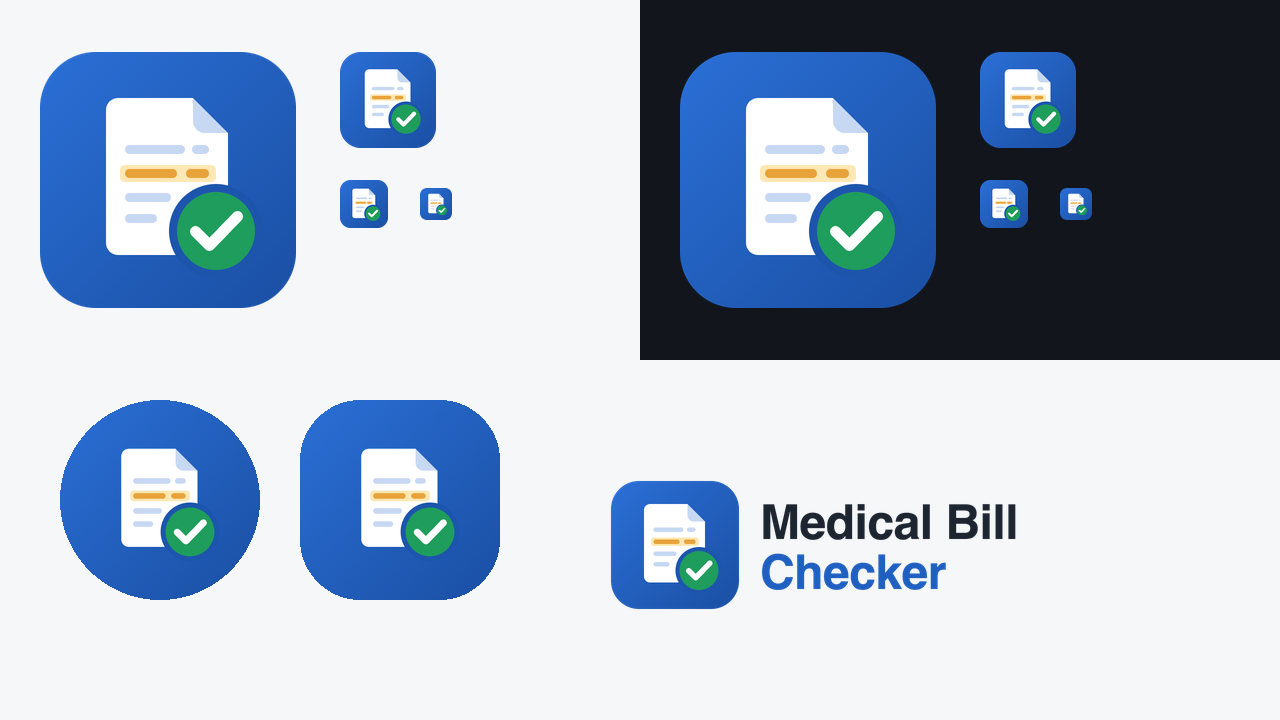
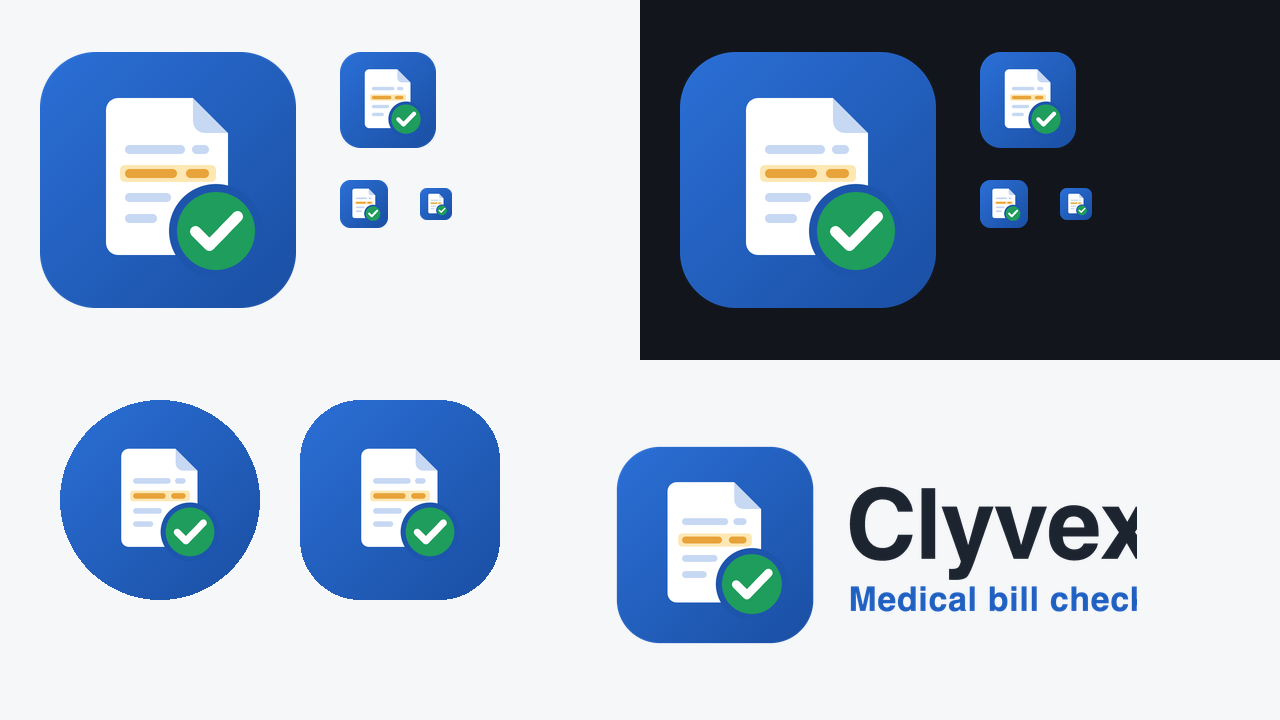
Rename the app to Clyvexa
Clyvexa everywhere users see the name (header, page and tab titles,
Spanish UI, verification page, MCP server, guide source), with
'Medical bill checker' as the descriptor in the wordmark and page title.
New wordmark lockup; search index rebuilt for the changed guide. Internal
package and repository names are unchanged.

Changed region(s): [[0.4688, 0.6111, 0.9062, 0.9167]]

diff --git a/frontend/src/lib/i18n.ts b/frontend/src/lib/i18n.ts
@@ -3,7 +3,7 @@
 export type Lang = "en" | "es";
 
 export const STATIC_EN: Record<string, string> = {
-  "app_title": "Medical Bill Checker",
+  "app_title": "Clyvexa",
   "my_account": "My account",
   "log_out": "Log out",
   "tagline": "Understand your medical bill, compare it with your insurance statement, and get a letter to send if something needs checking.",
@@ -122,7 +122,7 @@ export const STATIC_EN: Record<string, string> = {
 // go to US billing offices and insurers.
 
 export const STATIC_ES: Record<string, string> = {
-  app_title: "Revisor de Facturas Médicas",
+  app_title: "Clyvexa",
   tagline: "Entienda su factura médica, compárela con el estado de cuenta de su seguro y obtenga una carta para enviar si algo necesita revisión.",
   upload_title: "Suba su factura",
   bill_label: "Factura médica",

diff --git a/frontend/src/components/VerifyPacket.tsx b/frontend/src/components/VerifyPacket.tsx
@@ -127,8 +127,8 @@ export default function VerifyPacket() {
             <h2>{valid ? "✓ Signature valid" : "✗ Signature does not match"}</h2>
             <p>
               {valid
-                ? "This record was issued by Medical Bill Checker and has not been altered since."
-                : "This record has been altered or was not issued by Medical Bill Checker. Do not rely on it."}{" "}
+                ? "This record was issued by Clyvexa and has not been altered since."
+                : "This record has been altered or was not issued by Clyvexa. Do not rely on it."}{" "}
               <span className="muted">
                 Checked {browserCheck === null ? "by the server" : "in your browser"} with Ed25519.
               </span>

diff --git a/src/billchecker/web/index.html b/src/billchecker/web/index.html
@@ -3,7 +3,7 @@
 <head>
   <meta charset="utf-8">
   <meta name="viewport" content="width=device-width, initial-scale=1">
-  <title>Medical Bill Checker</title>
+  <title>Clyvexa: Medical Bill Checker</title>
   <link rel="icon" href="data:,">
   <link rel="stylesheet" href="/static/style.css">
   <script src="/static/i18n.js" defer></script>
@@ -13,7 +13,7 @@
   <header class="site-header">
     <div class="wrap">
       <div class="header-row">
-        <h1 data-i18n="app_title">Medical Bill Checker</h1>
+        <h1 data-i18n="app_title">Clyvexa</h1>
         <div class="header-actions">
           <span id="user-menu" hidden>
             <span id="user-email" class="muted"></span>

diff --git a/frontend/src/app/verify/page.tsx b/frontend/src/app/verify/page.tsx
@@ -1,7 +1,7 @@
 import type { Metadata } from "next";
 import VerifyPacket from "@/components/VerifyPacket";
 
-export const metadata: Metadata = { title: "Verify a billing letter · Medical Bill Checker" };
+export const metadata: Metadata = { title: "Verify a billing letter · Clyvexa" };
 
 export default function VerifyPage() {
   return <VerifyPacket />;

diff --git a/frontend/src/app/layout.tsx b/frontend/src/app/layout.tsx
@@ -2,7 +2,7 @@ import type { Metadata, Viewport } from "next";
 import "./globals.css";
 
 export const metadata: Metadata = {
-  title: "Medical Bill Checker",
+  title: "Clyvexa: Medical Bill Checker",
   description: "Understand your medical bill, compare it with your insurance statement, and get a letter to send.",
   icons: {
     icon: [

diff --git a/src/billchecker/web/i18n.js b/src/billchecker/web/i18n.js
@@ -5,7 +5,7 @@
 "use strict";
 
 const STATIC_ES = {
-  app_title: "Revisor de Facturas Médicas",
+  app_title: "Clyvexa",
   tagline: "Entienda su factura médica, compárela con el estado de cuenta de su seguro y obtenga una carta para enviar si algo necesita revisión.",
   upload_title: "Suba su factura",
   bill_label: "Factura médica",

diff --git a/src/billchecker/web/app.js b/src/billchecker/web/app.js
@@ -1,4 +1,4 @@
-// Medical Bill Checker front end. No dependencies.
+// Clyvexa (medical bill checker) front end. No dependencies.
 // Every value from the server or a document is inserted with textContent
 // (via el()), never as HTML, so bill text cannot run as code.
 "use strict";

diff --git a/brand/render.py b/brand/render.py
@@ -33,8 +33,8 @@ def main() -> None:
             page.close()
             print("wrote", out.relative_to(BRAND.parent))
         # Lockup (wordmark) at 2x.
-        page = browser.new_page(viewport={"width": 1240, "height": 300}, device_scale_factor=2)
-        page.set_content('<html><body style="margin:0;background:transparent">' + (BRAND / "lockup.svg").read_text().replace("<svg ", '<svg width="1240" height="300" ', 1) + "</body></html>")
+        page = browser.new_page(viewport={"width": 700, "height": 300}, device_scale_factor=2)
+        page.set_content('<html><body style="margin:0;background:transparent">' + (BRAND / "lockup.svg").read_text().replace("<svg ", '<svg width="700" height="300" ', 1) + "</body></html>")
         page.screenshot(path=str(BRAND / "lockup.png"), omit_background=True)
         print("wrote brand/lockup.png")
         browser.close()

diff --git a/src/billchecker/api.py b/src/billchecker/api.py
@@ -352,7 +352,7 @@ def create_app(settings: Settings) -> FastAPI:
         runner.shutdown()
         store.close()
 
-    app = FastAPI(title="Medical Bill Checker", lifespan=lifespan, docs_url=None, redoc_url=None, openapi_url=None)
+    app = FastAPI(title="Clyvexa", lifespan=lifespan, docs_url=None, redoc_url=None, openapi_url=None)
     app.state.store = store
     app.state.runner = runner
 

diff --git a/src/billchecker/mcp_server.py b/src/billchecker/mcp_server.py
@@ -145,7 +145,7 @@ def build_server(
 ) -> MCPServer:
     server = MCPServer(
         name="billchecker",
-        title="Medical Bill Checker",
+        title="Clyvexa: Medical Bill Checker",
         description="Check medical bills against insurance EOBs, explain them, and write letters.",
         instructions=INSTRUCTIONS,
         version="0.1.0",

diff --git a/brand/README.md b/brand/README.md
@@ -1,10 +1,10 @@
-# Brand
+# Brand: Clyvexa
 
 | File | Use |
 |---|---|
 | `mark.svg` | The logo mark (rounded square). Source for the web icons |
 | `mark-maskable.svg` | Full-bleed version with the art inside Android's safe zone |
-| `lockup.svg` / `lockup.png` | Logo with the name, for documents and the store listing |
+| `lockup.svg` / `lockup.png` | Clyvexa wordmark with "Medical bill checker", for documents and the store listing |
 | `play-store-icon-512.png` | Google Play icon: 512×512, full-bleed (Play applies the rounded mask) |
 | `preview.png` | The icon at real sizes, on light and dark, with Android masks |
 

diff --git a/src/billchecker/knowledge/about-the-flags.md b/src/billchecker/knowledge/about-the-flags.md
@@ -1,6 +1,6 @@
 ---
 title: What the checks in this tool mean
-sources: Medical Bill Checker | https://github.com/shahet07/medical-bill-checker
+sources: Clyvexa | https://github.com/shahet07/medical-bill-checker
 ---
 ## Flags are questions, not errors
 Each flag is something worth asking the billing office about. A flag is not proof that the bill is wrong. The evidence shown with each flag is copied from your bill or EOB so you can check it yourself.
